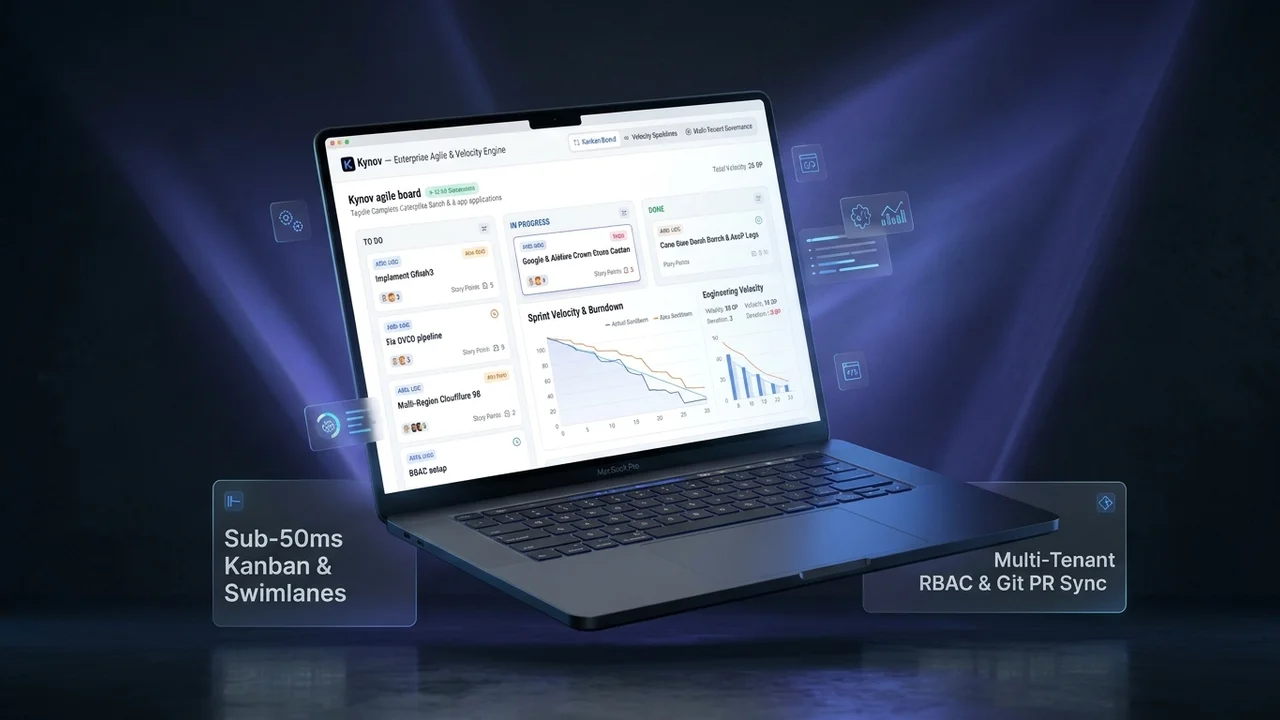
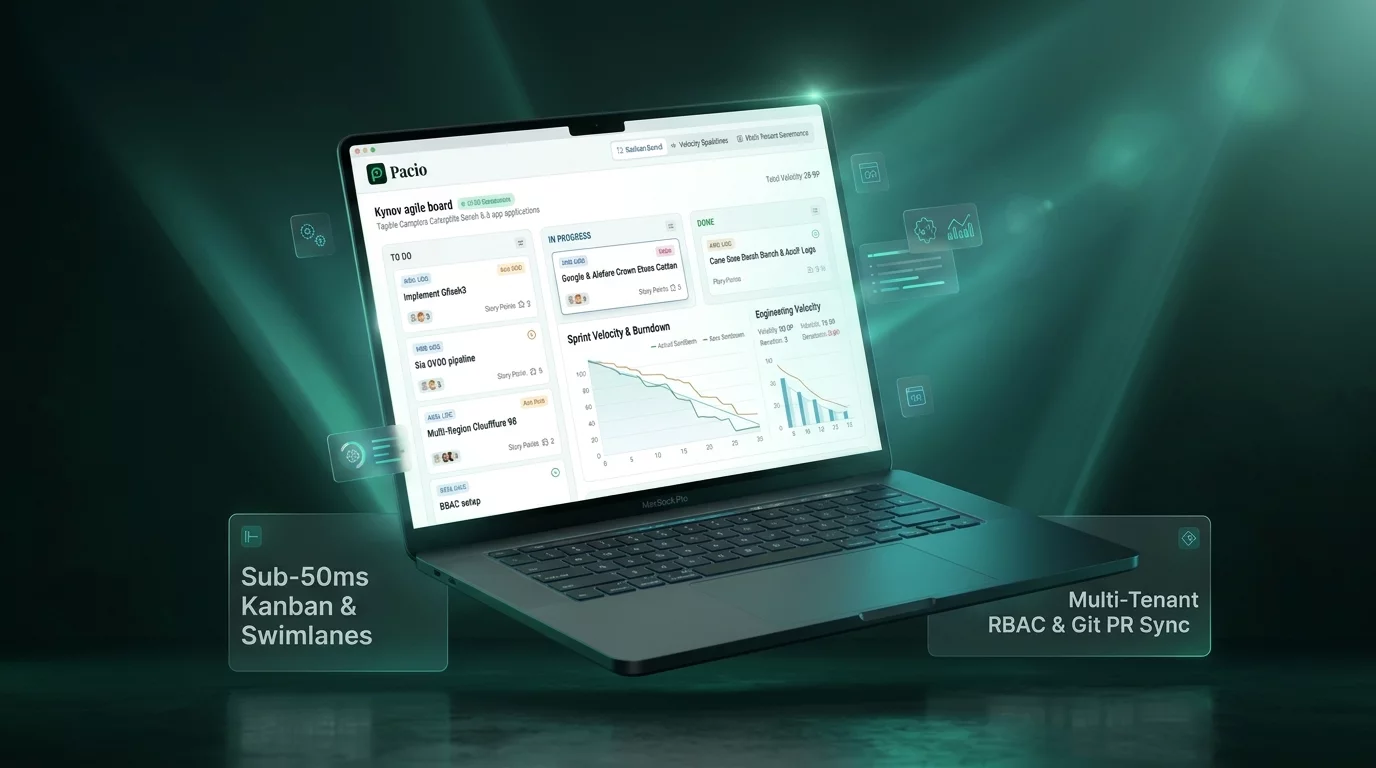
feat(branding): rebrand Takt to Hubito and Kynov to Pacio with new mockups and links

diff --git a/src/data/projects.js b/src/data/projects.js
@@ -1,13 +1,13 @@
 export const flagshipProjects = [
   {
-    id: "takt",
-    title: "Takt",
+    id: "hubito",
+    title: "Hubito",
     category: "Precision Task Command Center & Flow Engine",
     badgeStyle: "bg-emerald-500/10 text-emerald-700 dark:text-emerald-300 border-emerald-500/25",
-    tagline: "Precision Task Command Center, Pomodoro Cadence & Flow Workspace",
-    description: "Conceived, architected, and built by Haris as a zero-friction personal execution engine. Combines tactile Kanban swimlanes, Pomodoro cadence time-blocking, day-wise calendar scheduling, and local-first edge sync.",
-    image: "/images/showcase/takt-mockup.webp",
-    liveUrl: "https://takt.harisarshad.site/",
+    tagline: "Workspace & Task Command Center, Pomodoro Cadence & Flow Engine",
+    description: "Conceived, architected, and built by Haris as an executive workspace and task command center for structured project execution and daily workflow momentum. Combines tactile Kanban swimlanes, Pomodoro cadence time-blocking, 7-day calendar scheduling, and local-first edge sync.",
+    image: "/images/showcase/hubito-mockup.webp",
+    liveUrl: "https://hubito.harisarshad.site/tour",
     keyFeatures: [
       "Tactile Kanban swimlanes with dynamic List, Board, and Calendar views",
       "Precision Pomodoro cadence, time-blocking & deep flow sessions",
@@ -18,15 +18,15 @@ export const flagshipProjects = [
     borderHoverClass: "group-hover:border-emerald-500/40"
   },
   {
-    id: "kynov",
-    title: "Kynov",
+    id: "pacio",
+    title: "Pacio",
     category: "Next-Gen Agile Engine & Sprint Tracker",
     badgeStyle: "bg-indigo-500/10 text-indigo-700 dark:text-indigo-300 border-indigo-500/25",
     tagline: "Sub-50ms Kanban Boards, Sprint Velocity Sparklines & Multi-Tenant Governance",
     description: "An edge-native Agile velocity and sprint tracking platform built for high-output engineering teams. Combines sub-50ms Kanban swimlanes, live sprint backlogs, velocity sparklines, integrated Markdown ADR/PRD specs, Git PR tracking, and multi-tenant corporate RBAC.",
-    image: "/images/showcase/kynov-mockup.webp",
-    liveUrl: "https://kynov.harisarshad.site/",
-    dashboardUrl: "https://kynov.harisarshad.site/dashboard",
+    image: "/images/showcase/pacio-mockup.webp",
+    liveUrl: "https://pacio.harisarshad.site/",
+    dashboardUrl: "https://pacio.harisarshad.site/dashboard",
     keyFeatures: [
       "Sub-50ms Kanban swimlanes with optimistic state, sprint backlogs & velocity sparklines",
       "Multi-tenant corporate governance with isolated workspaces & granular RBAC",

diff --git a/src/pages/index.js b/src/pages/index.js
@@ -123,12 +123,12 @@ const softwareAppSchema = {
     {
       '@type': 'SoftwareApplication',
       position: 1,
-      name: 'Takt',
+      name: 'Hubito',
       operatingSystem: 'All',
       applicationCategory: 'ProductivityApplication',
-      url: 'https://takt.harisarshad.site/',
+      url: 'https://hubito.harisarshad.site/tour',
       description:
-        'Precision Task Command Center, Pomodoro Cadence & Flow Workspace with local-first Cloudflare edge sync.',
+        'Workspace & Task Command Center, Pomodoro Cadence & Flow Engine with local-first Cloudflare edge sync.',
       author: {
         '@type': 'Person',
         name: 'Haris Arshad',
@@ -137,10 +137,10 @@ const softwareAppSchema = {
     {
       '@type': 'SoftwareApplication',
       position: 2,
-      name: 'Kynov',
+      name: 'Pacio',
       operatingSystem: 'All',
       applicationCategory: 'BusinessApplication',
-      url: 'https://kynov.harisarshad.site/',
+      url: 'https://pacio.harisarshad.site/',
       description:
         'Next-Gen Agile Engine & Modern Sprint Tracker with sub-50ms Kanban boards, sprint velocity sparklines, and multi-tenant corporate RBAC.',
       author: {

diff --git a/src/components/FAQ/FAQ.js b/src/components/FAQ/FAQ.js
@@ -28,7 +28,7 @@ export const FAQ_DATA = [
   {
     question: 'What proprietary SaaS products have you architected and built?',
     answer:
-      'Alongside managing enterprise client portfolios, I conceived, architected, and built two live cloud SaaS platforms: Takt (takt.harisarshad.site), a local-first task command center with Kanban swimlanes and Pomodoro flow cadence, and Kynov (kynov.harisarshad.site), an edge-native Agile sprint tracker with sub-50ms Kanban boards, velocity sparklines, Markdown ADR/PRD specs, and multi-tenant corporate RBAC on Cloudflare Workers and D1.',
+      'Alongside managing enterprise client portfolios, I conceived, architected, and built two live cloud SaaS platforms: Hubito (hubito.harisarshad.site/tour), a local-first task command center with Kanban swimlanes and Pomodoro flow cadence, and Pacio (pacio.harisarshad.site), an edge-native Agile sprint tracker with sub-50ms Kanban boards, velocity sparklines, Markdown ADR/PRD specs, and multi-tenant corporate RBAC on Cloudflare Workers and D1.',
   },
   {
     question: 'What roles or engagements are you currently open to?',

diff --git a/src/components/Footer/Footer.js b/src/components/Footer/Footer.js
@@ -32,14 +32,14 @@ const Footer = () => {
 
         <LinkColumn>
           <LinkTitle>Original SaaS Products</LinkTitle>
-          <LinkItem href="https://takt.harisarshad.site/" target="_blank" rel="noopener noreferrer">
-            Takt — Task Command Center ↗
+          <LinkItem href="https://hubito.harisarshad.site/tour" target="_blank" rel="noopener noreferrer">
+            Hubito — Task Command Center ↗
           </LinkItem>
-          <LinkItem href="https://kynov.harisarshad.site/" target="_blank" rel="noopener noreferrer">
-            Kynov — Agile Sprint Engine ↗
+          <LinkItem href="https://pacio.harisarshad.site/" target="_blank" rel="noopener noreferrer">
+            Pacio — Agile Sprint Engine ↗
           </LinkItem>
-          <LinkItem href="https://kynov.harisarshad.site/dashboard" target="_blank" rel="noopener noreferrer">
-            Kynov Live Workspace ↗
+          <LinkItem href="https://pacio.harisarshad.site/dashboard" target="_blank" rel="noopener noreferrer">
+            Pacio Live Workspace ↗
           </LinkItem>
         </LinkColumn>
 

diff --git a/src/styles/flagship-showcase.css b/src/styles/flagship-showcase.css
@@ -108,11 +108,13 @@
   box-shadow: var(--shadow-xl);
 }
 
-.flagship-card.card-takt:hover {
+.flagship-card.card-takt:hover,
+.flagship-card.card-hubito:hover {
   border-color: rgba(16, 185, 129, 0.45);
 }
 
-.flagship-card.card-kynov:hover {
+.flagship-card.card-kynov:hover,
+.flagship-card.card-pacio:hover {
   border-color: rgba(79, 70, 229, 0.45);
 }
 
